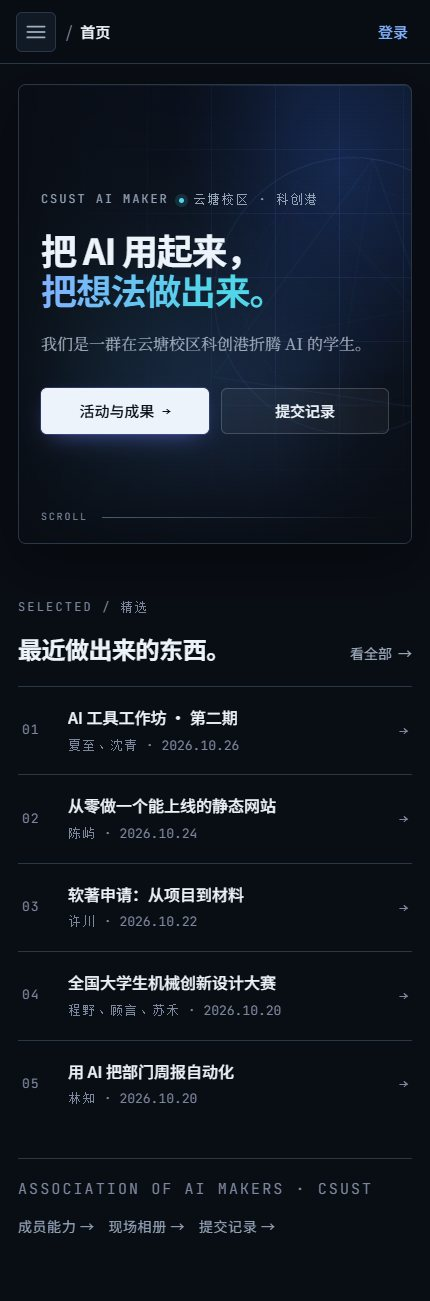
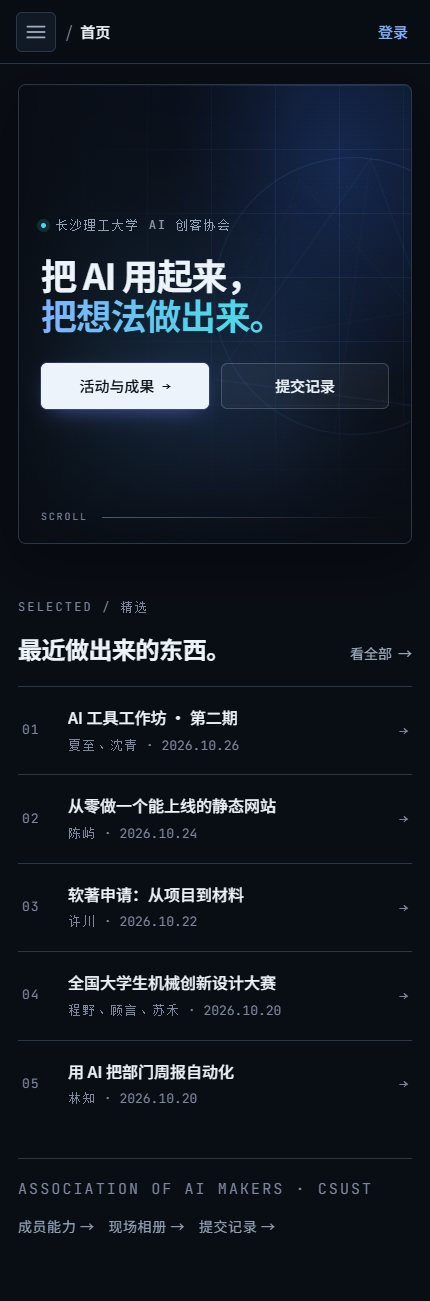
feat: 首屏文案精简——显示协会全称，移除副标题与人物介绍

Changed region(s): [[0.0907, 0.1537, 0.8163, 0.3689]]

diff --git a/src/styles/app-theme.css b/src/styles/app-theme.css
@@ -693,7 +693,7 @@ body { font-size: 16px; }
   overflow: hidden;
   border: 1px solid var(--line);
   border-radius: var(--radius-lg);
-  min-height: clamp(560px, calc(100vh - 180px), 720px);
+  min-height: clamp(500px, calc(100vh - 240px), 640px);
   display: flex;
   align-items: center;
   background:
